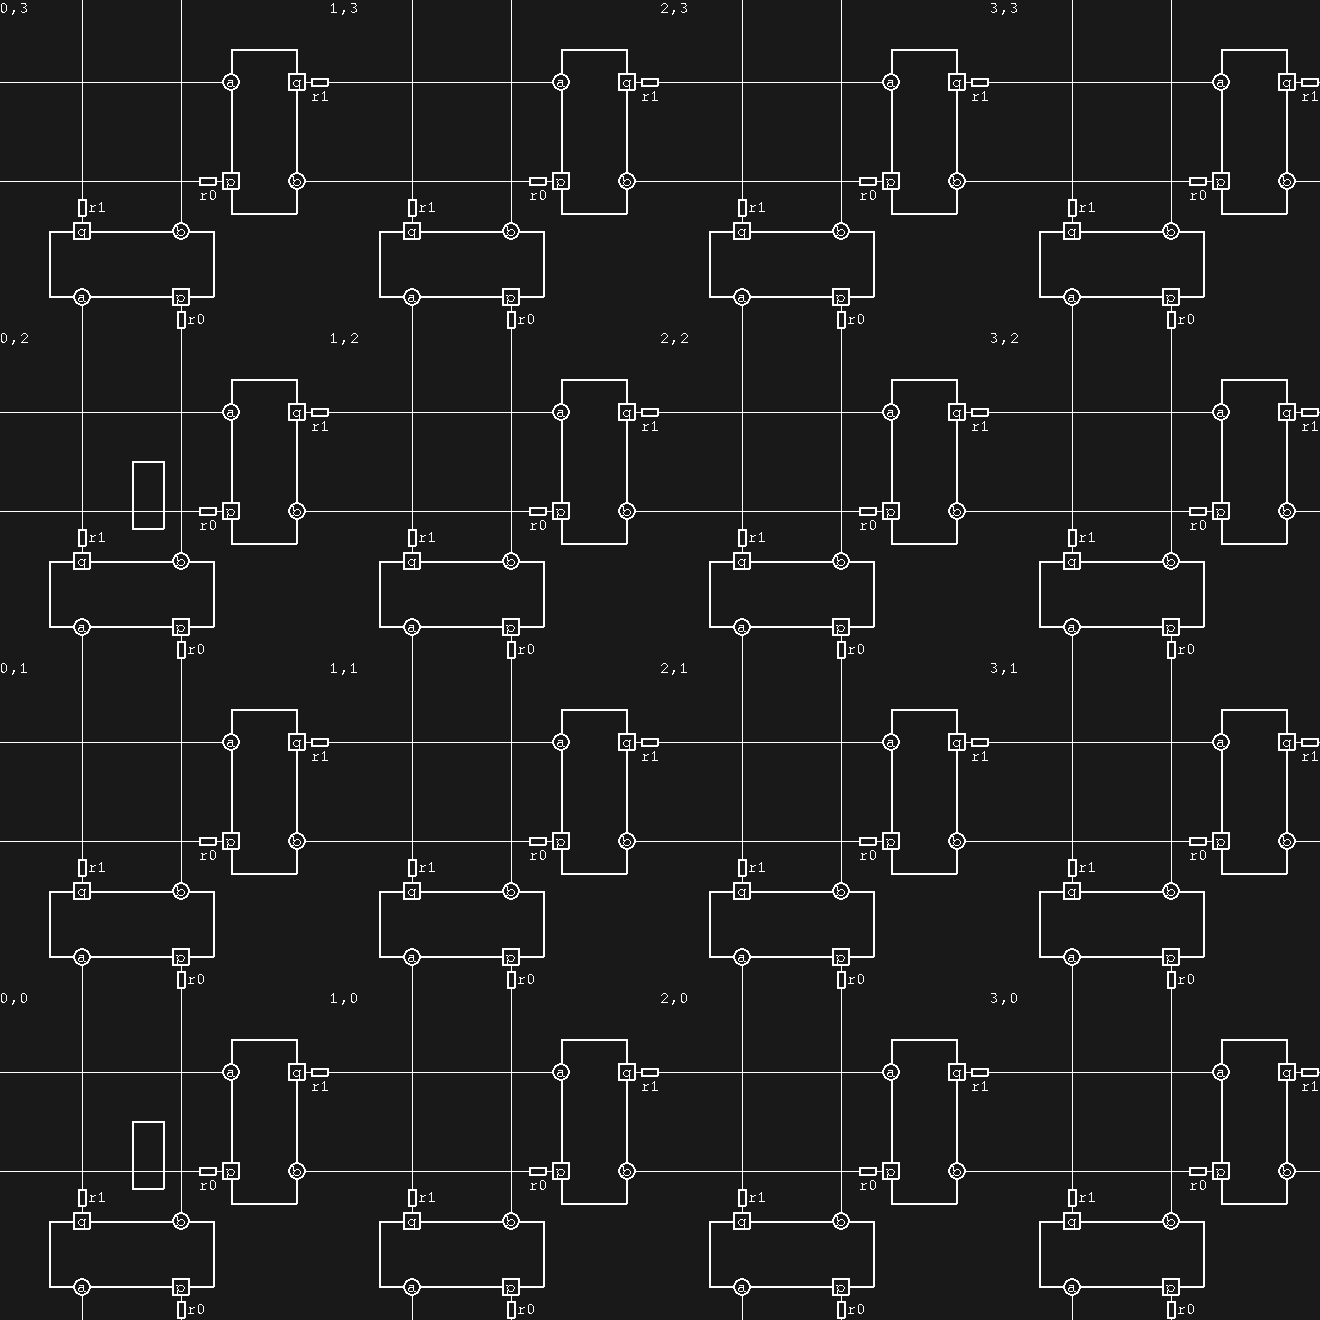
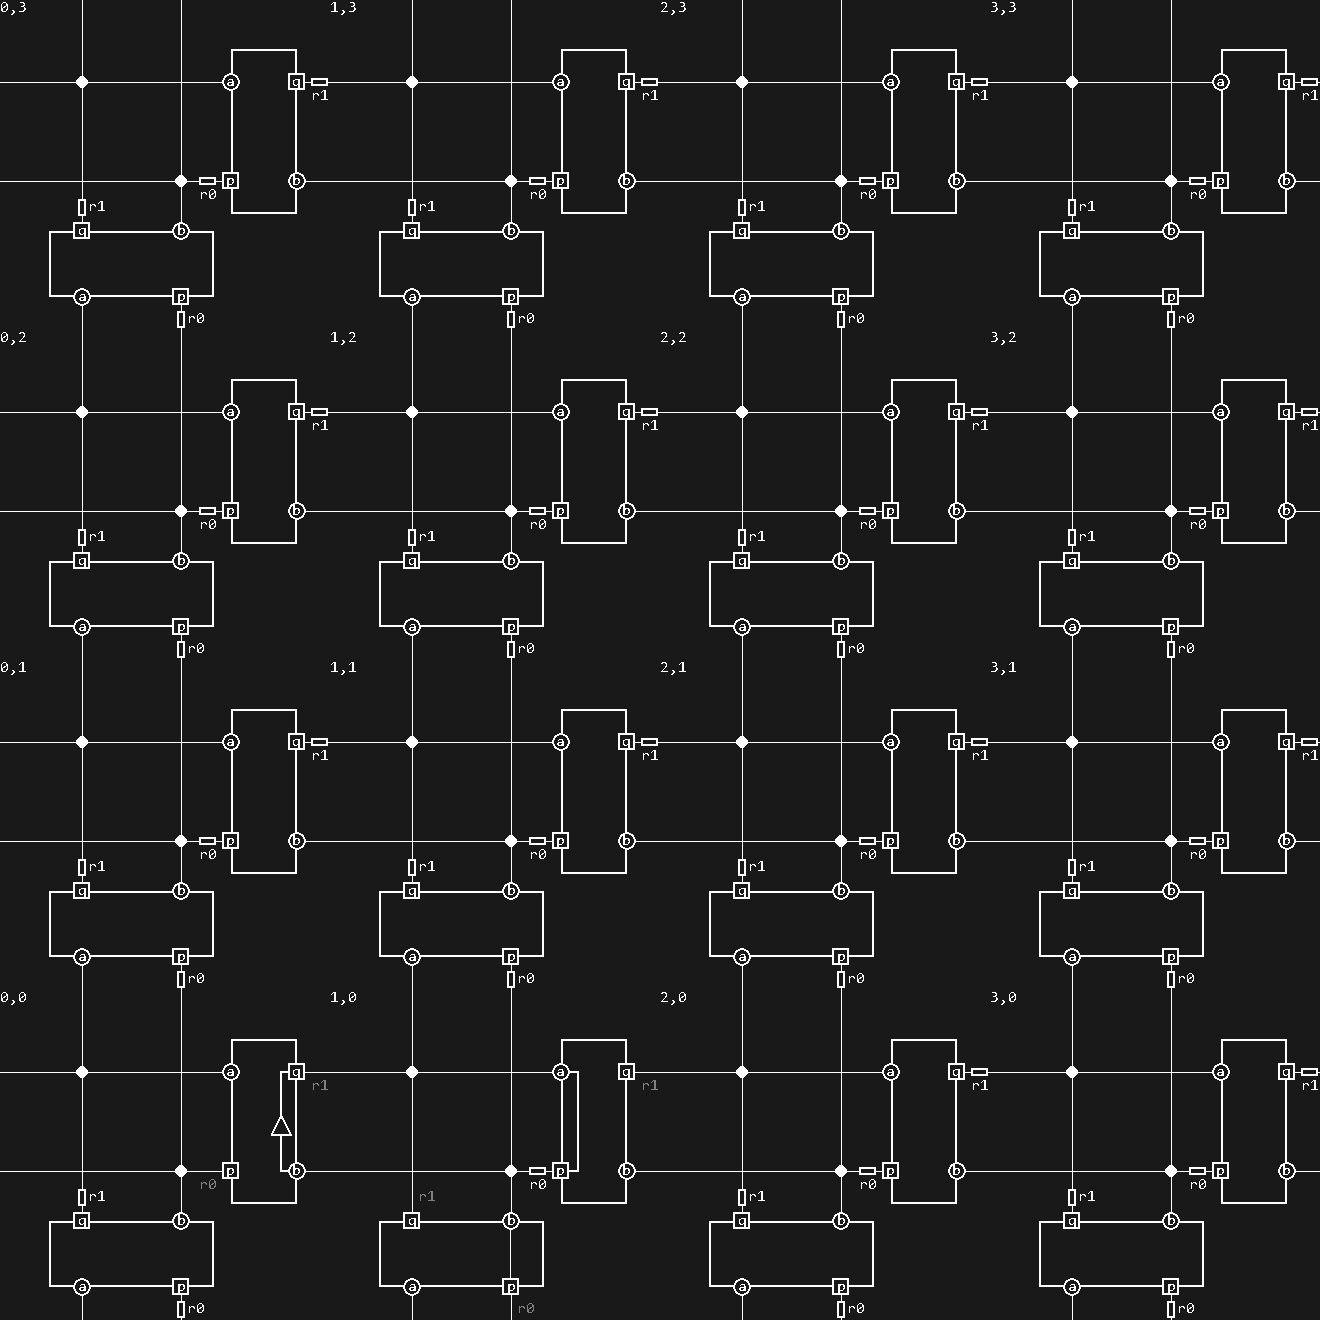
add config rendering

diff --git a/visualisation/fpga.py b/visualisation/fpga.py
@@ -4,7 +4,8 @@ from math import *
 import random
 
 class FPGA:
-    def __init__(self, width, height):
+    def __init__(self, config, width, height):
+        self.config = config
         self.width = width
         self.height = height
 
@@ -12,21 +13,26 @@ class FPGA:
 
         for x in range(self.width):
             for y in range(self.height):
-                self.tiles.append(Tile(self, x, y))
+                try:
+                    lut_config = self.config['tiles'][str(x) + ',' + str(y)]
+                except KeyError:
+                    lut_config = DEFAULT_LUT_CONFIG
+                self.tiles.append(Tile(self, lut_config, x, y))
 
     def draw(self, surface):
         for tile in self.tiles:
             tile.draw(surface)
     
 class Tile:
-    def __init__(self, fpga, x, y):
+    def __init__(self, fpga, config, x, y):
         self.fpga = fpga
+        self.config = config
         self.x = x
         self.y = y
 
         self.luts = {
-            "horz": LUT(self, True),
-            "vert": LUT(self, False)
+            "horz": LUT(self, config['horzLut'], True),
+            "vert": LUT(self, config['vertLut'], False)
         }
 
         q_y = SIZE * 0.25
@@ -44,6 +50,11 @@ class Tile:
             "down_out": Connect(self, p_x, SIZE),
             "right_out": Connect(self, SIZE, q_y)
         }
+
+        self.wire_combinators = [
+            WireCombinator(self, a_x, q_y),
+            WireCombinator(self, p_x, b_y)
+        ]
 
     def dy(self):
         return (self.fpga.height - self.y - 1) * SIZE
@@ -81,14 +92,18 @@ class Tile:
         for _, connect in self.connect.items():
             connect.draw_debug(surface)
 
+        for comb in self.wire_combinators:
+            comb.draw(surface)
+
+
 
 
 class LUT:
-    def __init__(self, tile, horizontal):
+    def __init__(self, tile, config, horizontal):
         self.tile = tile
+        self.config = config
         self.horizontal = horizontal
-        self.length = SIZE * 0.5
-        self.width = self.length * 0.4
+        (self.width, self.length) = LUTSIZE
         
         self.inputs = {
             "a": Input(self, 0.1 * SIZE, self.width),
@@ -104,14 +119,15 @@ class LUT:
 
         reg_offset = SIZE*0.07
         self.registers = {
-            "r0": Register(self, p_height, -reg_offset, True), # TODO: baseer dit eens op de config
-            "r1": Register(self, q_height, self.width + reg_offset, True)
+            "r0": Register(self, p_height, -reg_offset, self.config['enableReg0']),
+            "r1": Register(self, q_height, self.width + reg_offset, self.config['enableReg1'])
         }
 
         self.x = (SIZE - self.length) * 0.3
         self.y = (SIZE - self.width) - SIZE * 0.1
 
-        self.config_obj = LUTConfig(self, "00011011") # TODO: ook uit config
+        randstr = "".join([random.choice("01") for x in [x for x in range(8)]])
+        self.config_obj = LUTConfig(self, self.config['lutConfig'])
 
     def orient(self, x, y, w, h):
         if self.horizontal:
@@ -141,6 +157,8 @@ class LUT:
         
         pygame.draw.rect(surface, black, pygame.Rect(self.pos(), (l, w)), width=LINE)
 
+        self.config_obj.draw(surface)
+
         for name, input in self.inputs.items():
             input.draw(surface, name)
 
@@ -150,7 +168,6 @@ class LUT:
         for name, register in self.registers.items():
             register.draw(surface, name)
 
-        self.config_obj.draw(surface)
 
 class Connect:
     def __init__(self, parent, x_offset, y_offset):
@@ -211,6 +228,27 @@ class Output(Input):
         (fx, fy) = font.size(str)
         surface.blit(inp_name, (x - fx / 2, y - fy / 2))
 
+class WireCombinator:
+    def __init__(self, parent, x, y):
+        self.tile = parent
+        self.x = x
+        self.y = y
+
+    def dx(self):
+        return self.x
+    
+    def dy(self):
+        return self.y
+
+    def pos(self):
+        (px, py) = self.tile.pos()
+        return (px + self.dx(), py + self.dy())
+
+    def draw(self, surface):
+        radius = SIZE * 0.02
+        pygame.draw.circle(surface, black, self.pos(), radius)
+    
+
 class Register:
     def __init__(self, parent, x, y, state):
         self.parent = parent
@@ -267,18 +305,16 @@ class LUTConfig:
         (px, py) = self.parent.pos()
         return (px + self.dx(), py + self.dy())
 
-    def draw_turnaround(self, surface):
-        pass # TODO: hoe dit nice, liever met SVG of png eigenlijk
-
     def draw(self, surface):
-        if self.config == "00000000":
-            pass
-        elif self.config == "00011011":
-            self.draw_turnaround(surface)
+        if self.config in resource_map:
+            surf = resource_map[self.config]
+            if self.parent.horizontal:
+                surf = pygame.transform.rotate(surf, 90)
+            surface.blit(surf, self.parent.pos())
         else:
             (x, y) = self.pos()
             for i in range(4):
-                text = f'{i:02b}↦{self.config_r[i*2:i*2+2]}'
+                text = f'{i:02b}:{self.config_r[i*2:i*2+2]}'
                 table_line = font.render(text, False, black)
                 (fx, fy) = font.size(text)
                 surface.blit(table_line, (x, y + i * fy))

diff --git a/visualisation/consts.py b/visualisation/consts.py
@@ -29,3 +29,38 @@ debug = False
 def draw_box(surface, rect):
         pygame.draw.rect(surface, white, rect)
         pygame.draw.rect(surface, black, rect, width=LINE)
+
+# Maps bitvectors to their image representation
+resource_map_names = {
+    "00000000": "empty.png",
+    "01010000": "forward_a.png",
+    "10001000": "forward_b.png",
+    "11011000": "forwardBoth.png",
+    "11100100": "turnAround.png",
+    "00011011": "invertedTurnAround.png",
+    "00010001": "q_is_not_b.png",
+    "00001010": "p_is_not_a.png",
+    "10100000": "p_is_a.png",
+    "01000100": "q_is_b.png"
+}
+
+resource_map = {}
+
+LUTSIZE = (SIZE * 0.5 * 0.4, SIZE * 0.5)
+
+for bv, filename in resource_map_names.items():
+    surf = pygame.image.load("resources/" + filename)
+    print(f"Loaded {filename}")
+    resource_map[bv] = pygame.transform.scale(surf, LUTSIZE)
+
+DEFAULT_LUT_CONFIG = {
+    "horzLut": {
+        "lutConfig": "00000000",
+        "enableReg1": True,
+        "enableReg0": True
+    },
+    "vertLut": { 
+        "lutConfig": "00000000", 
+        "enableReg1": True, 
+        "enableReg0": True }
+}

diff --git a/visualisation/main.py b/visualisation/main.py
@@ -1,6 +1,7 @@
 import pygame
 from fpga import *
 from consts import *
+import json
 
 def save(surface, name):
     pygame.image.save(surface, name)
@@ -10,6 +11,11 @@ def draw(fpga):
     fpga.draw(surface)
     return surface
 
-fpga = FPGA(4, 4)
+def load(config_name):
+    with open(config_name, "r") as file:
+        config = json.load(file)
+        return config
+
+fpga = FPGA(load("config.json"), 4, 4)
 
 save(draw(fpga), "out.png")
